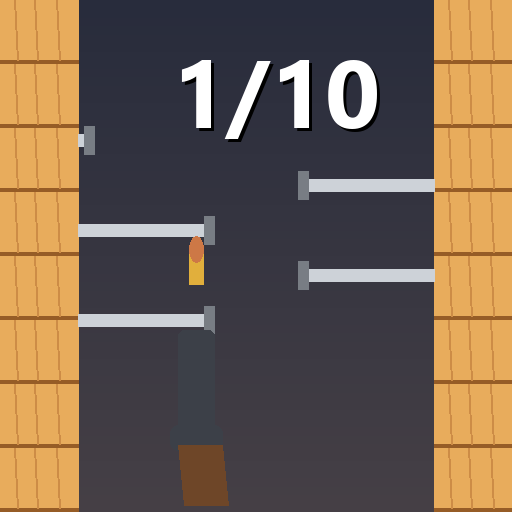
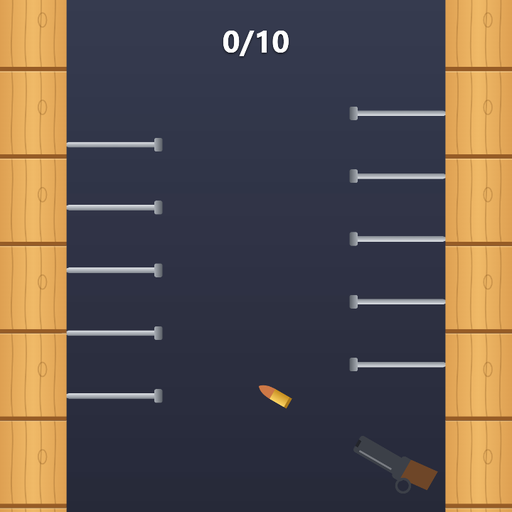
Nail It v2: script-based game (swinging gun on the right, tap to fire, ricochets, win/lose) (#2)

Changed region(s): [[0.0, 0.0, 1.0, 1.0], [0.5, 0.75, 0.5625, 0.8125], [0.0, 0.0, 0.0312, 0.0312]]

diff --git a/filters/lensmith-app/nail-it/script.js b/filters/lensmith-app/nail-it/script.js
@@ -1,0 +1,179 @@
+// Nail It — a "Shoot the Nails" style game for Lensmith.
+//
+// The gun on the right swings back and forth. Tap to fire: the bullet flies at the gun's
+// angle, ricochets off the walls and the nails, and every nail it touches is hammered in.
+// One shot per round — once the bullet is past the last nail you win (all nails) or lose.
+// Tap to play again.
+
+var NAILS = 10;        // nails per round (half on each wall)
+var WALL = 0.13;       // wall thickness, in screen widths
+var NAIL_LENGTH = 0.17;
+var BULLET_SPEED = 1.5; // screen widths per second
+var BULLET_SIZE = 0.012;
+var SWING_SPEED = 2.2;  // how fast the gun swings
+var AIM_LOW = 148;      // gun angle range in degrees (90 = straight up, 180 = left)
+var AIM_HIGH = 178;     // the perfect shots are shallow: about 170-172° and 177-178°
+
+var nails = [];
+var bullet = null;
+var state = "aim";      // aim -> flying -> won / lost
+var swing = 0;
+var score = 0;
+var endTime = 0;
+
+function start(lens) {
+  newRound(lens);
+}
+
+function newRound(lens) {
+  var s = lens.screen;
+  var bottom = s.bottom + s.height * 0.42;
+  var top = s.top - s.height * 0.12;
+  var perSide = Math.floor(NAILS / 2);
+  var step = (top - bottom) / perSide;
+  nails = [];
+  for (var i = 0; i < perSide; i++) {
+    nails.push({ left: true, y: bottom + step * i, out: 1, hit: false });
+    nails.push({ left: false, y: bottom + step * (i + 0.5), out: 1, hit: false });
+  }
+  bullet = null;
+  state = "aim";
+  score = 0;
+}
+
+// Where the gun sits (fixed, bottom right) and where it's pointing.
+function gun(lens) {
+  var s = lens.screen;
+  var angle = AIM_LOW + (AIM_HIGH - AIM_LOW) * (0.5 + 0.5 * Math.sin(swing));
+  return { x: s.right - WALL - 0.1, y: s.bottom + s.height * 0.32, angle: angle };
+}
+
+// The span a nail covers, from the wall out to its head.
+function nailSpan(lens, n) {
+  var s = lens.screen;
+  var reach = NAIL_LENGTH * n.out + 0.02;
+  if (n.left) return { from: s.left + WALL, to: s.left + WALL + reach };
+  return { from: s.right - WALL - reach, to: s.right - WALL };
+}
+
+function tap(lens, x, y) {
+  if (state === "aim") {
+    var g = gun(lens);
+    var rad = g.angle * Math.PI / 180;
+    var muzzle = 0.07;
+    bullet = {
+      x: g.x + Math.cos(rad) * muzzle,
+      y: g.y + Math.sin(rad) * muzzle,
+      vx: Math.cos(rad) * BULLET_SPEED,
+      vy: Math.sin(rad) * BULLET_SPEED
+    };
+    state = "flying";
+  } else if (state === "won" || state === "lost") {
+    if (lens.time - endTime > 0.8) newRound(lens);
+  }
+}
+
+function update(lens, dt) {
+  var s = lens.screen;
+  if (state === "aim") swing += dt * SWING_SPEED;
+
+  if (state === "flying") {
+    // Small steps so a fast bullet can't skip through a nail.
+    var steps = 6;
+    for (var k = 0; k < steps && state === "flying"; k++) moveBullet(lens, dt / steps);
+  }
+
+  // Hit nails slide into the wall.
+  for (var i = 0; i < nails.length; i++) {
+    if (nails[i].hit) nails[i].out = Math.max(0, nails[i].out - dt * 7);
+  }
+
+  draw(lens);
+}
+
+function moveBullet(lens, dt) {
+  var s = lens.screen;
+  var b = bullet;
+  b.x += b.vx * dt;
+  b.y += b.vy * dt;
+
+  // Walls.
+  if (b.x < s.left + WALL + BULLET_SIZE) { b.x = s.left + WALL + BULLET_SIZE; b.vx = Math.abs(b.vx); }
+  if (b.x > s.right - WALL - BULLET_SIZE) { b.x = s.right - WALL - BULLET_SIZE; b.vx = -Math.abs(b.vx); }
+
+  // Nails: hammer it in and ricochet away from its wall.
+  for (var i = 0; i < nails.length; i++) {
+    var n = nails[i];
+    if (n.hit) continue;
+    var span = nailSpan(lens, n);
+    if (b.x >= span.from - BULLET_SIZE && b.x <= span.to + BULLET_SIZE && Math.abs(b.y - n.y) < BULLET_SIZE + 0.012) {
+      n.hit = true;
+      score++;
+      b.vx = n.left ? Math.abs(b.vx) : -Math.abs(b.vx);
+      lens.burst("💥", n.left ? span.to : span.from, n.y, 1, "Explode", 0.16);
+      lens.burst("✨", n.left ? span.to : span.from, n.y, 6, "Explode", 0.04);
+    }
+  }
+
+  // Past the last nail (or out of the screen): the round is over.
+  if (b.y > s.top + 0.05 || b.y < s.bottom - 0.05) {
+    state = score === nails.length ? "won" : "lost";
+    endTime = lens.time;
+    bullet = null;
+    if (state === "won") lens.flash(1, 0.9, 0.4);
+  }
+}
+
+function draw(lens) {
+  var s = lens.screen;
+  var i, n, span;
+
+  // Nails first, so the walls cover the part inside the wood.
+  for (i = 0; i < nails.length; i++) {
+    n = nails[i];
+    span = nailSpan(lens, n);
+    var len = NAIL_LENGTH + 0.03;
+    var head = n.left ? span.to : span.from;
+    lens.sprite("drawing:Nail", n.left ? head - len / 2 : head + len / 2, n.y, len, n.left ? 0 : 180);
+  }
+
+  // Wooden walls.
+  var plank = WALL * 210 / 160;
+  for (var y = s.bottom + plank / 2; y - plank / 2 < s.top; y += plank) {
+    lens.sprite("drawing:WoodPlank", s.left + WALL / 2, y, WALL);
+    lens.sprite("drawing:WoodPlank", s.right - WALL / 2, y, WALL);
+  }
+
+  // Heads of the nails that were hammered in.
+  for (i = 0; i < nails.length; i++) {
+    n = nails[i];
+    if (n.out < 0.05) {
+      lens.sprite("drawing:Nail", n.left ? s.left + WALL + 0.008 : s.right - WALL - 0.008, n.y, 0.06, n.left ? 0 : 180);
+    }
+  }
+
+  // Gun (the drawing points up, so turn it by angle - 90) and an aiming guide.
+  var g = gun(lens);
+  if (state === "aim") {
+    var rad = g.angle * Math.PI / 180;
+    for (var d = 1; d <= 5; d++) {
+      lens.sprite("•", g.x + Math.cos(rad) * (0.06 + d * 0.05), g.y + Math.sin(rad) * (0.06 + d * 0.05), 0.02, 0, 1 - d * 0.15);
+    }
+  }
+  lens.sprite("drawing:Pistol", g.x, g.y, 0.12, g.angle - 90);
+
+  if (bullet) {
+    var heading = Math.atan2(bullet.vy, bullet.vx) * 180 / Math.PI - 90;
+    lens.sprite("drawing:Bullet", bullet.x, bullet.y, 0.028, heading);
+  }
+
+  // Score and messages.
+  var hud = s.top - s.height * 0.07;
+  lens.text(score + "/" + nails.length, (s.left + s.right) / 2, hud, 0.1);
+  if (state === "aim") lens.text("Tap to shoot!", (s.left + s.right) / 2, hud - 0.11, 0.055);
+  if (state === "won" || state === "lost") {
+    var mid = (s.bottom + s.top) / 2;
+    lens.text(state === "won" ? "YOU WIN! 🔨" : "YOU LOSE", (s.left + s.right) / 2, mid, 0.13);
+    if (lens.time - endTime > 0.8) lens.text("Tap to play again", (s.left + s.right) / 2, mid - 0.12, 0.055);
+  }
+}
